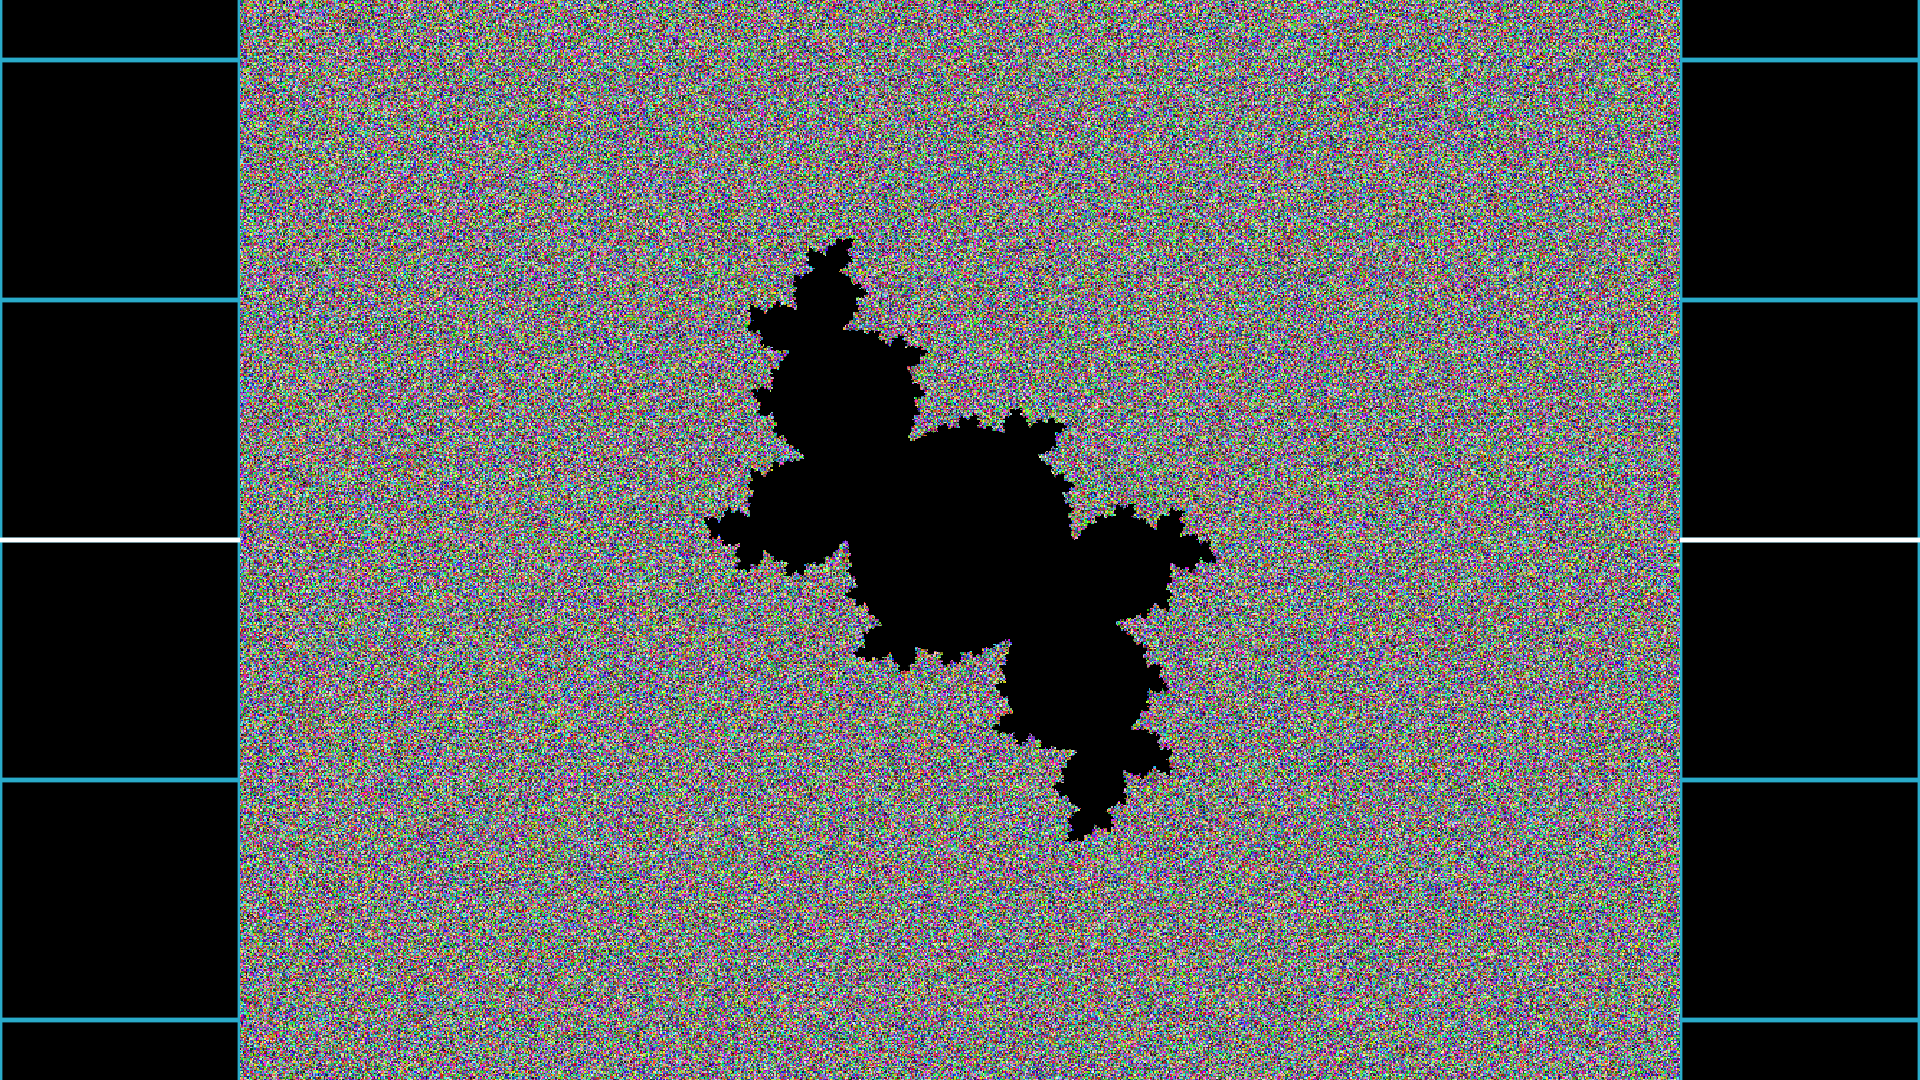
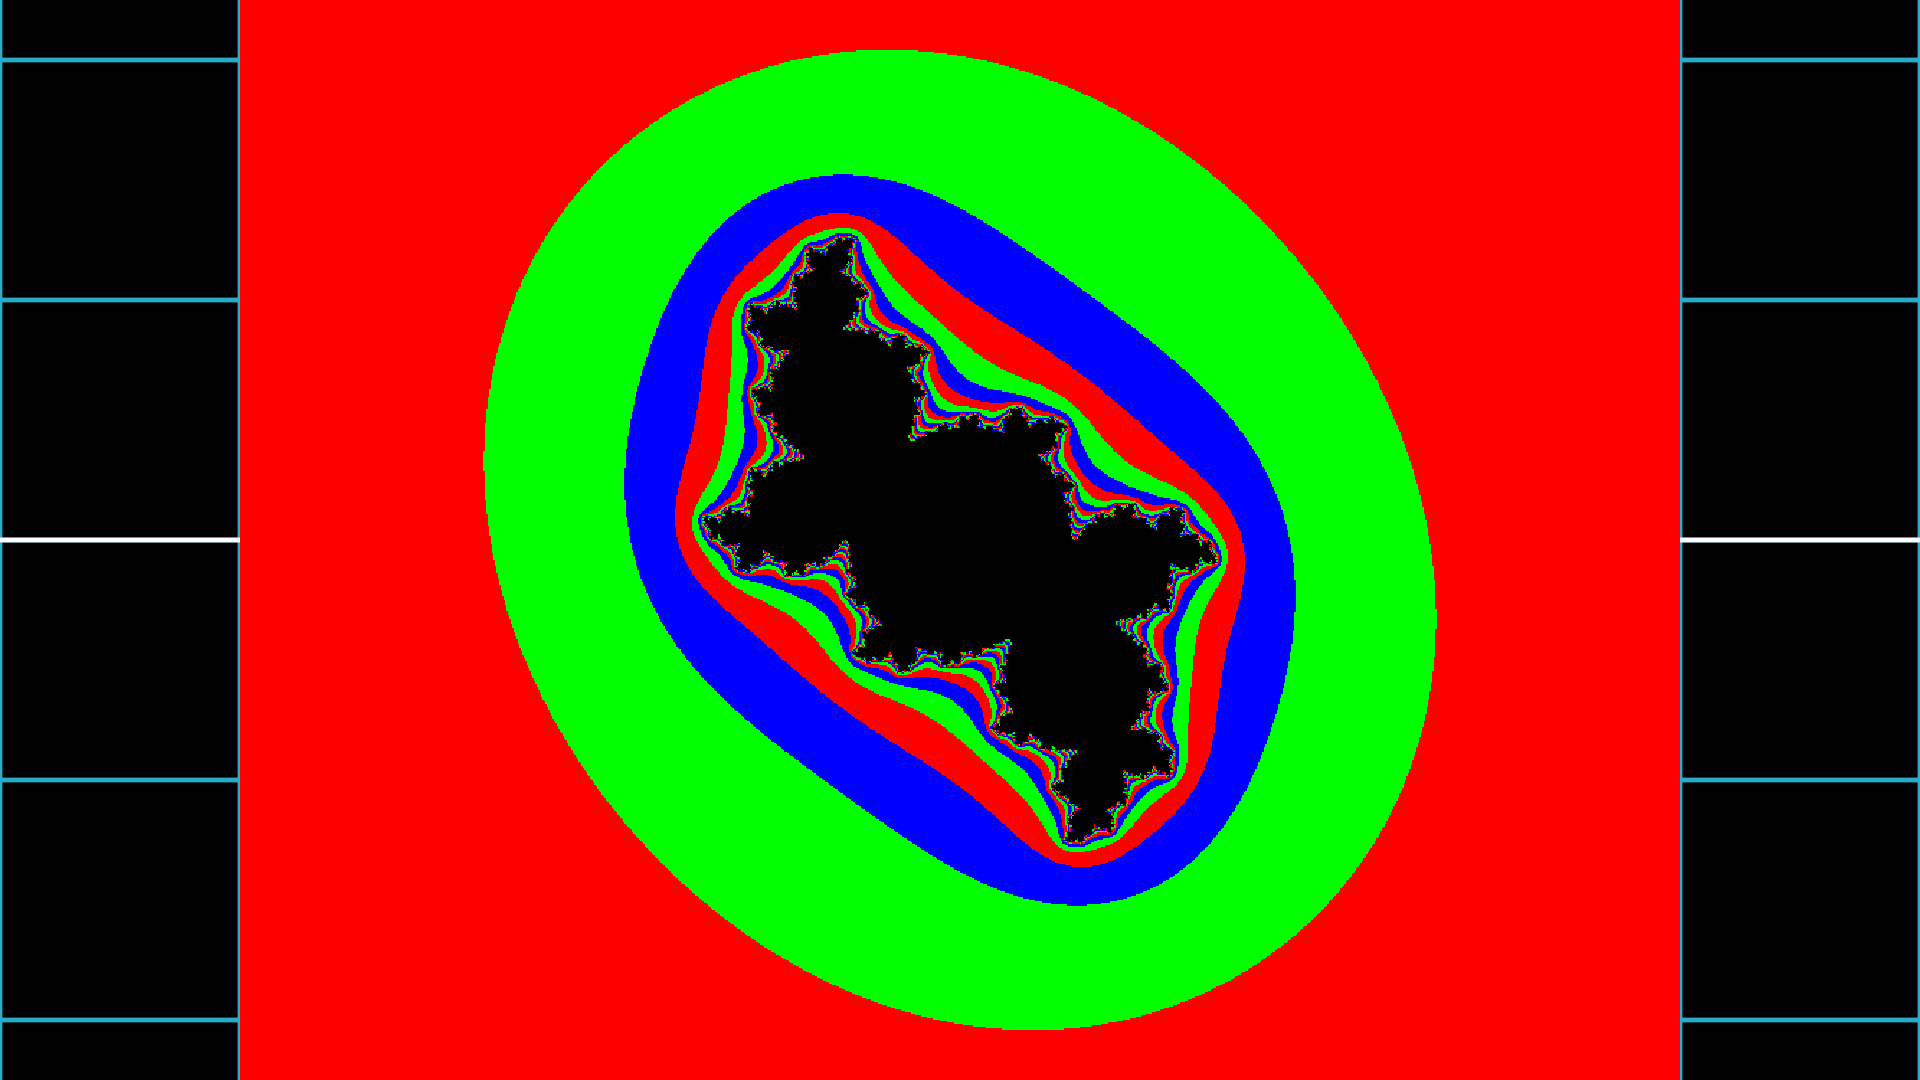
辣眼睛配色方案

diff --git a/costomermobject.py b/costomermobject.py
@@ -33,7 +33,7 @@ class TestSceneForImageMobject(Scene):
         x_range = [-3, 3]
         y_range = [-3, 3]
         unitnumber = 1000
-
+        colors = [[255, 0, 0], [0, 255, 0], [0, 0, 255]]
         xunit = yunit = unitnumber
         totalunit = xunit * yunit
 
@@ -50,7 +50,9 @@ class TestSceneForImageMobject(Scene):
                 complexvar = self.calccomplex(x_range, y_range, xunit, yunit, i, j)
                 [julia, num, amplitude] = is_julia(complexvar, c, ita_num, limitation)
                 if julia:
-                    randomcolor[i][j] = [0,0,0]
+                    randomcolor[i][j] = [0, 0, 0]
+                else:
+                    randomcolor[i][j] = colors[num % len(colors)]
                 coorcomplex.append(complexvar)
                 # dots.add(Dot(plane.n2p(complexvar), radius=0.1))
 
@@ -60,8 +62,8 @@ class TestSceneForImageMobject(Scene):
 
         image = ImageMobject(np.uint8(randomcolor))
         image.set_resampling_algorithm(RESAMPLING_ALGORITHMS["nearest"])
-        image.height = abs(x_range[0]-x_range[1])
-        image.move_to([np.mean(x_range),np.mean(y_range),0])
+        image.height = abs(x_range[0] - x_range[1])
+        image.move_to([np.mean(x_range), np.mean(y_range), 0])
         self.add(image.set_opacity(1))
         return super().construct()
 
